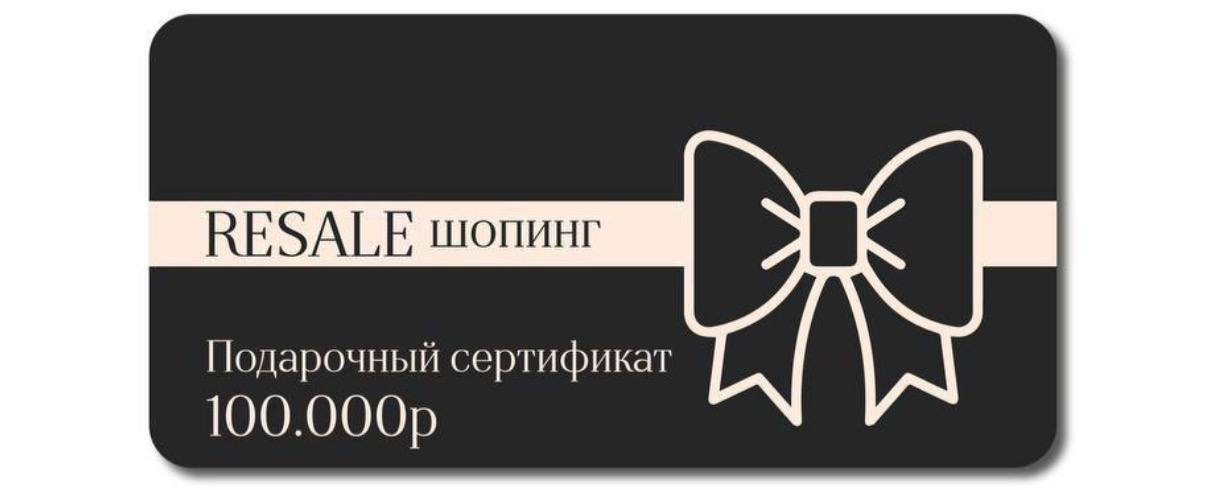
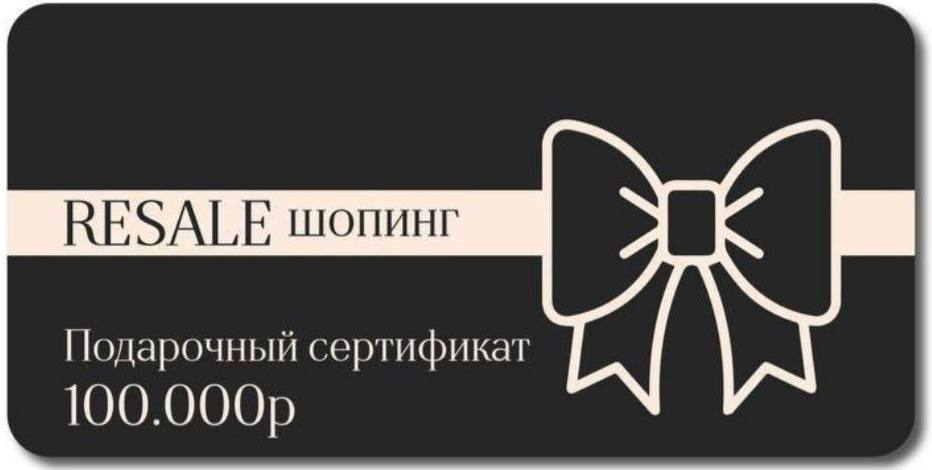
update gift-cards mobile controls and replace card mockups
- Remove nominal heading and keep amount selectors in one row on mobile
- Swap in latest provided 50k/100k/500k card images
- Keep preview full-width and clean, without extra visual noise

Made-with: Cursor

diff --git a/app/gift-cards/page.tsx b/app/gift-cards/page.tsx
@@ -8,8 +8,8 @@ const NOMINALS = [
     label: "50 000 ₽",
     slug: "gift-card-50000",
     image: "/gift-cards/card-50000.png",
-    objectPosition: "center 50%",
-    zoom: 1.04,
+    objectPosition: "center center",
+    zoom: 1,
   },
   {
     label: "100 000 ₽",
@@ -22,8 +22,8 @@ const NOMINALS = [
     label: "500 000 ₽",
     slug: "gift-card-500000",
     image: "/gift-cards/card-500000.png",
-    objectPosition: "center 56%",
-    zoom: 1.06,
+    objectPosition: "center center",
+    zoom: 1,
   },
 ] as const;
 
@@ -69,14 +69,13 @@ export default function GiftCardsPage() {
 
         <div className="space-y-6 rounded-[24px] border border-[#d9d2c8] bg-white p-5 md:p-6">
           <div>
-            <h2 className="text-lg font-semibold text-zinc-900 md:text-xl">Номинал</h2>
-            <div className="mt-4 flex flex-wrap gap-2">
+            <div className="mt-1 grid grid-cols-3 gap-2">
               {NOMINALS.map((n) => (
                 <button
                   key={n.slug}
                   type="button"
                   onClick={() => setSlug(n.slug)}
-                  className={`rounded-full border px-6 py-3 text-sm font-semibold uppercase tracking-[0.1em] transition ${
+                  className={`w-full rounded-full border px-2 py-3 text-[12px] font-semibold uppercase tracking-[0.06em] transition md:px-5 md:text-sm md:tracking-[0.1em] ${
                     slug === n.slug
                       ? "border-zinc-900 bg-zinc-900 text-[#f6f3ef]"
                       : "border-[#d9d2c8] bg-[#faf8f5] text-zinc-800 hover:border-zinc-600"
